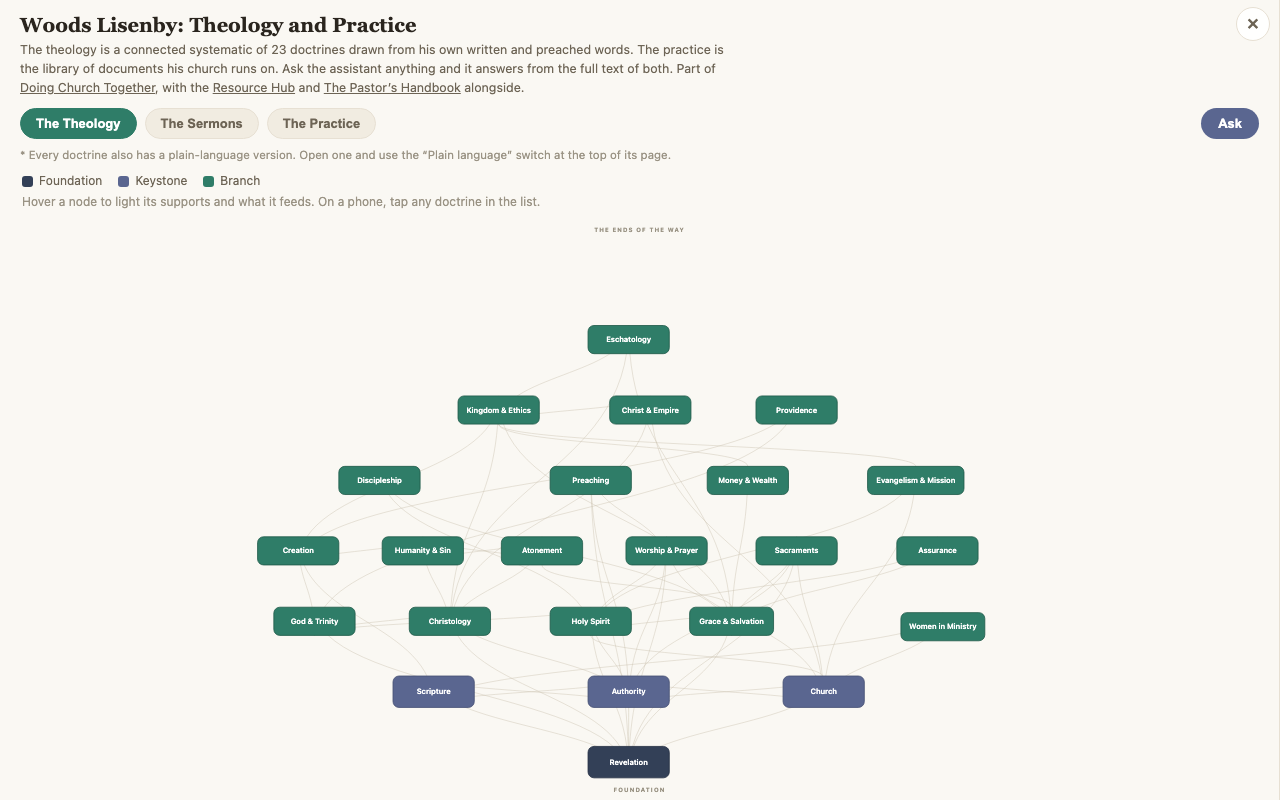
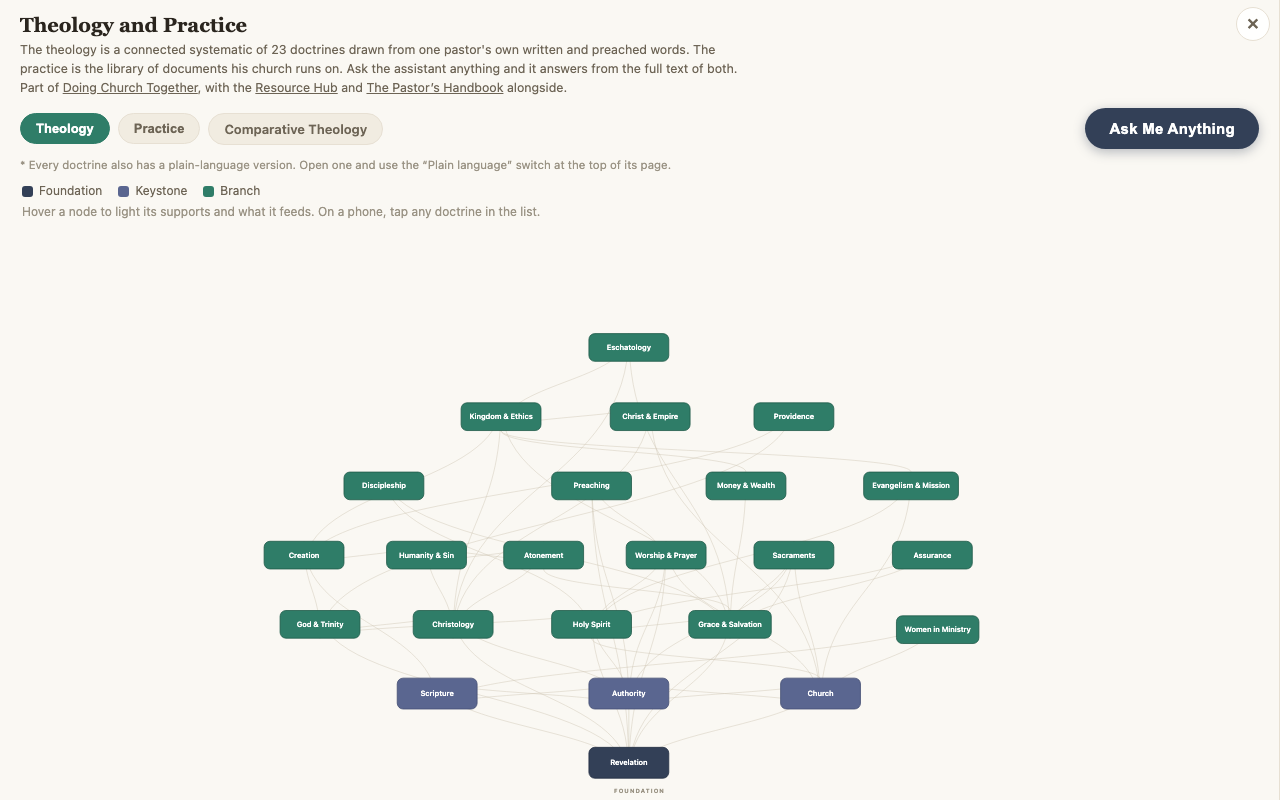
Nav and fit card read Theology and Practice / Comparative Theology; retake theology screenshots with the new headline

diff --git a/index.html b/index.html
@@ -285,8 +285,8 @@
     <div class="links">
       <a href="#hub">Hub</a>
       <a href="#handbook">Handbook</a>
-      <a href="#theology">Theology</a>
-      <a href="#comparative">Comparative</a>
+      <a href="#theology">Theology and Practice</a>
+      <a href="#comparative">Comparative Theology</a>
     </div>
   </nav>
   <div class="hero">
@@ -394,7 +394,7 @@
     </div>
     <div class="fit-card">
       <div class="label">See the ground</div>
-      <h3>The Theology</h3>
+      <h3>Theology and Practice</h3>
       <p>You want the thinking underneath the practice. Walk the map from its foundation upward, or ask a question and follow the answer to its sources.</p>
     </div>
     <div class="fit-card">
